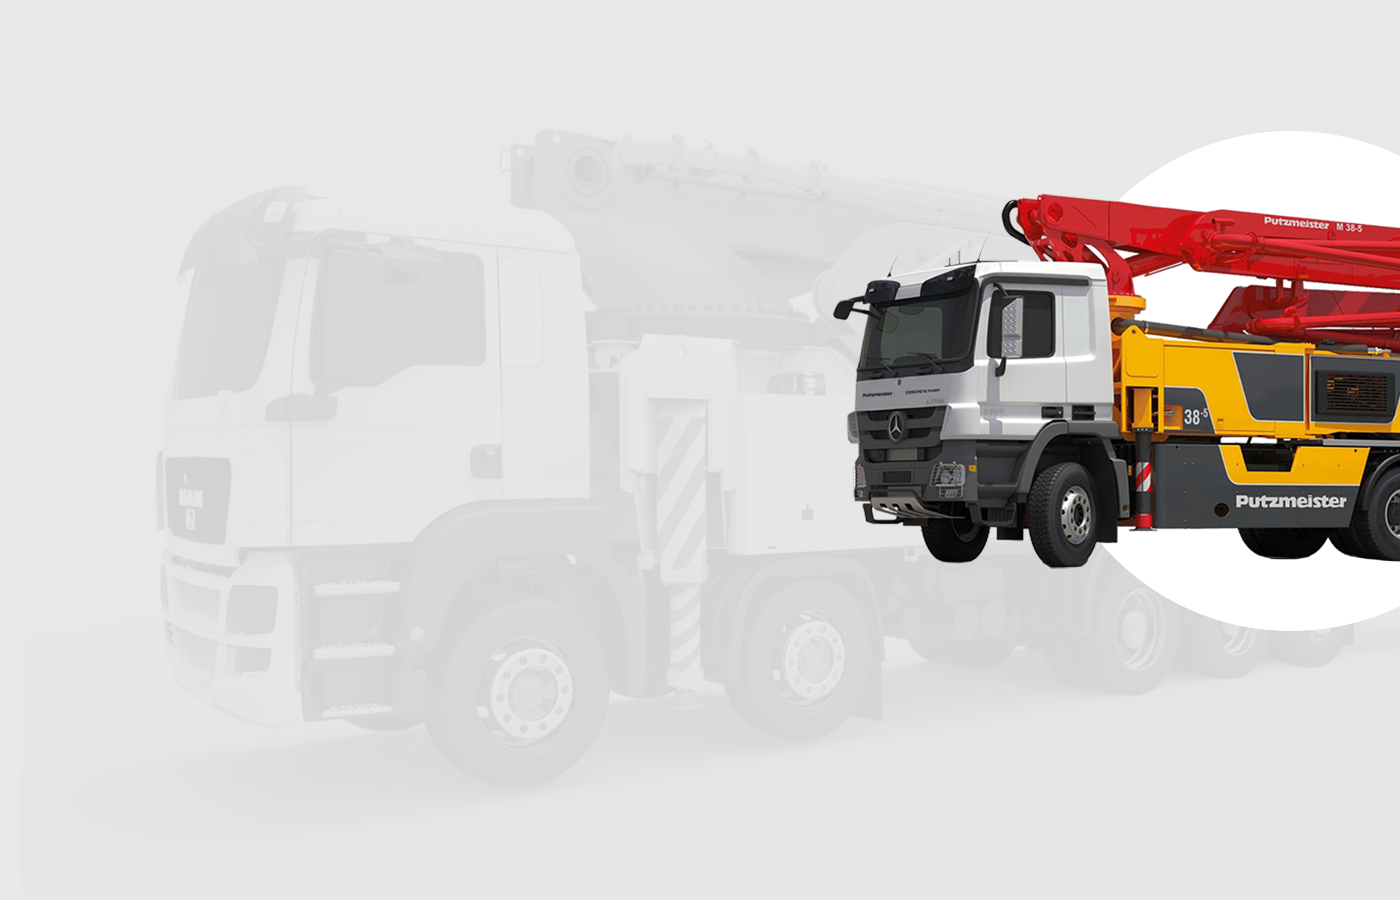
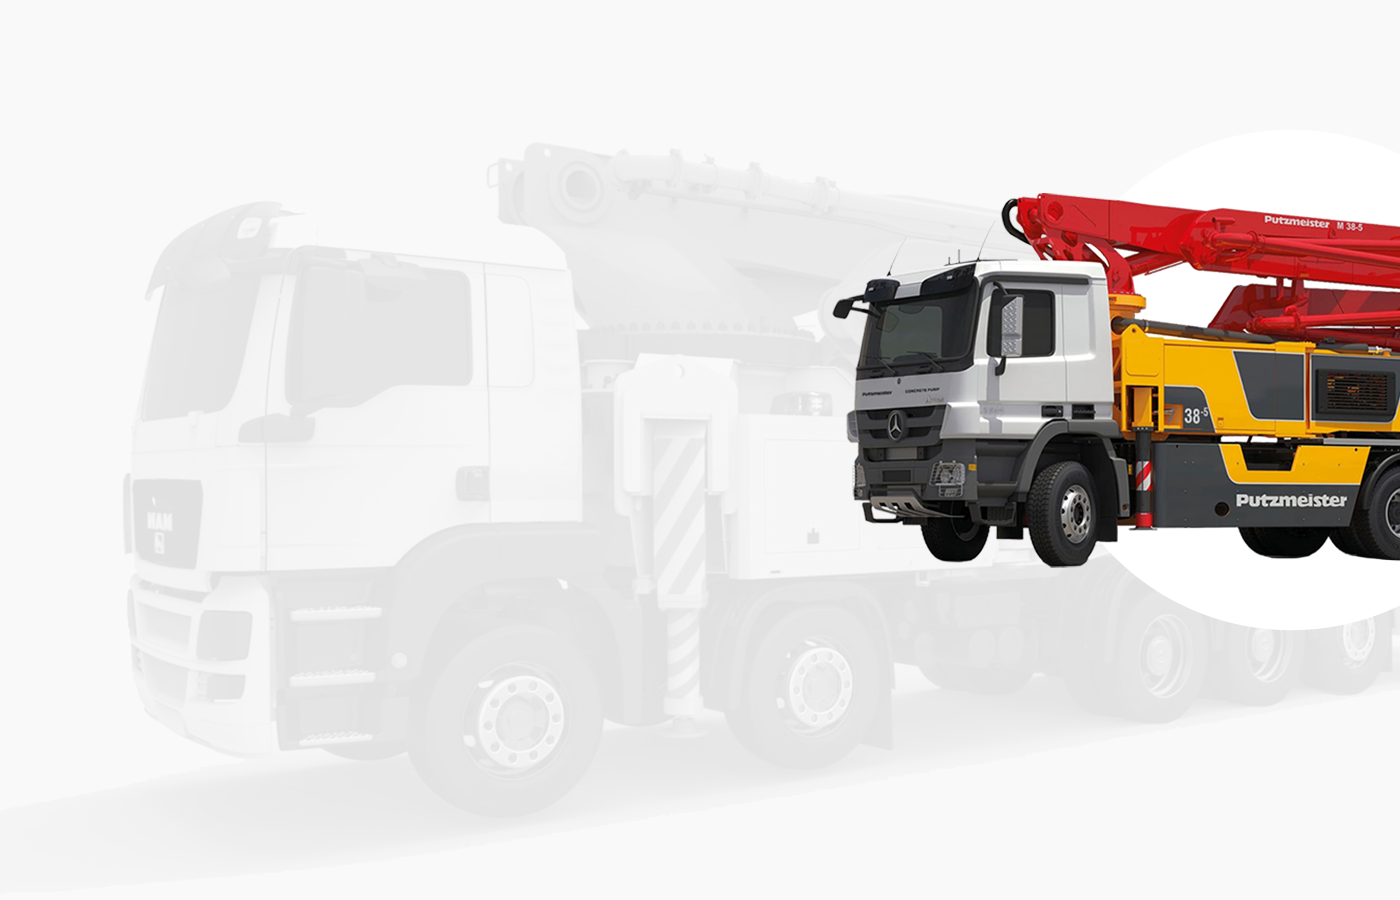
Changes in layout and printing images

diff --git a/concrete/static/css/style.css b/concrete/static/css/style.css
@@ -2,7 +2,7 @@
 @media (max-width: 575px){
     .background {
         /* The image used */
-        background-color: #e8e8e8;
+        background-color: #f9f9f9;
     }
     html {
         font-size: 0.75rem !important;
@@ -65,7 +65,7 @@
 @media (min-width: 576px) and (max-width: 767px){
     .background {
         /* The image used */
-        background-color: #e8e8e8;
+        background-color: #f9f9f9;
     
         /* Full height */
         height: 100%;
@@ -83,7 +83,7 @@
 @media (min-width: 768px) and (max-width: 991px){
     .background {
         /* The image used */
-        background-color: #e8e8e8;
+        background-color: #f9f9f9;
     }
     html {
         font-size: 1.0rem !important;
@@ -94,7 +94,7 @@
 @media (min-width: 992px) and (max-width: 1025px) {
     .background {
         /* The image used */
-        background-color: #e8e8e8;
+        background-color: #f9f9f9;
     }
     html {
         font-size: 1.2rem !important;
@@ -189,7 +189,7 @@ html {
 }
 
 #services, #works, #contacts{
-    background-color: #e8e8e8;
+    background-color: #f9f9f9;
 }
 .flex-1 {
     align-items: stretch;

diff --git a/concrete/templates/index.html b/concrete/templates/index.html
@@ -417,7 +417,7 @@
     <!-- /Блок клиенты -->
     <!-- Блок контакты -->
     <section>
-        <div class="row container-fluid mx-0" style="background-color: #e8e8e8;">
+        <div class="row container-fluid mx-0" style="background-color: #f9f9f9;">
             <div class="col-xl-1 col-lg-1 col-md-1 col-sm-0"></div>
             <div class="col-xl-10 col-lg-12 col-md-12 col-sm-12">
                 <h1 class="text-center font-weight-bold mt-5">Контакты</h1>

diff --git a/concrete/views.py b/concrete/views.py
@@ -3,8 +3,9 @@ from concrete.decorators import admin_required
 from concrete.models import AlbumImage
 
 def index(request):
-    images = AlbumImage.objects.all()
-    print(images)
+    #images = AlbumImage.objects.all()
+    images = AlbumImage.objects.all().order_by('-id')[:6][::-1]
+    #print(images)
     # for img in images:
     #     print(img.url)
     return render(request, 'index.html', context={'images': images})
